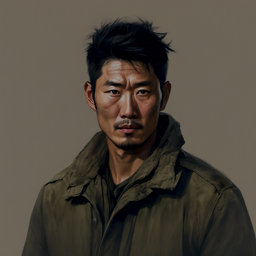
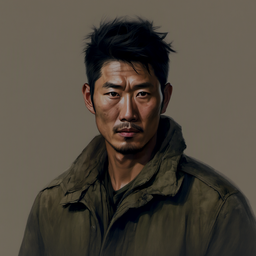
주인공 초상화 16장 추가, 실사 얼굴 크기 맞추기 (12-139)
- 화풍마다 남녀 2명씩 16장 추가 (모두 32장: A 남4·여4, D 남4·여4, C 남2·여6, B 남3·여5)
- 화풍 단위 crop_scale: 실사(A)는 같은 얼굴 너비 기준이어도 작아 보여 0.88로 당겨 자른다
- 원본 덮어쓰기 경계·테두리가 남는 얼굴은 cleanup: true로 Qwen이 전체를 다듬는다

diff --git a/scripts/portraits.ts b/scripts/portraits.ts
@@ -34,6 +34,8 @@ type Style = {
   sampler: string;
   scheduler: string;
   grade?: Grade;
+  /** 이 화풍 전체의 자르는 영역 배율 (기본 1). 1보다 작으면 얼굴이 커진다. 얼굴의 crop_scale과 곱한다 */
+  crop_scale?: number;
   /** 머리가 위로 잘리는 화풍용: 위쪽을 이만큼(px, 8의 배수) 이어 그린 뒤 위에서부터 정사각형으로 자른다 */
   extend_top?: number;
 };
@@ -195,7 +197,7 @@ for (const job of jobs) {
   job.crop = null;
   if (framing) {
     const { width, height } = pngSize(job.raw);
-    if (face) job.crop = planCrop(face, width, height, job.ch.crop_scale ?? 1);
+    if (face) job.crop = planCrop(face, width, height, (style.crop_scale ?? 1) * (job.ch.crop_scale ?? 1));
     else console.error(`  ! ${job.prefix}: 얼굴을 찾지 못해 가운데를 자릅니다`);
   }
   const p = job.crop?.pad;

diff --git a/docs/design.md b/docs/design.md
@@ -227,7 +227,7 @@ storylet_tags: [grunt, squad_life]
     - 다 만들면 상태 화면은 시트로 바뀌고 "Claude 세션에서 첫 장면이 이어진다"를 잠깐 띄운다
     - 상태 서버의 `POST /api/creation`은 Claude 세션이 화면 고르기를 열었을 때만 받는다 (JSON만, 설정 창과 같은 까닭)
   - 초상화는 id만 세이브에 남는다. 월드 팩에 주인공 초상화 목록(`art/portraits.yaml`)이 있으면 그 그림(`art/portraits/<id>.png`, 상태 화면이 `/portraits/<팩>/<id>.png`로 내준다)을, 없으면 코드로 그린 실루엣 12종(`ui/Portrait.tsx`, 예전 세이브도)을 그린다
-  - **주인공 초상화** (12-139): NPC 얼굴은 만들지 않고 주인공 얼굴만 고른다. 사용자가 화풍을 고를 수 있게 화풍마다 섹션을 나눈다. post_apoc은 실사 회화(A, 남2·여2) → 미국 애니메이션(D, 남2·여2) → 현대 애니메이션(C, 여4) → 일본 레트로 일러스트(B, 여3·남1) 순. 일반 플레이어는 A·D를, 애니메이션 취향은 B·C를 고를 것으로 본다. core는 `art/portraits.yaml`에서 화풍 이름(`styles.<id>.label`, 적힌 순서가 섹션 순서)과 얼굴의 화풍·성별(`faces.<id>.style·gender`)만 읽고, 나머지 칸은 그림 생성 도구(`pnpm portraits <팩>`, 로컬 ComfyUI)의 설정이다. 목록이 있는 월드는 목록 밖 id와 다른 성별의 얼굴을 받지 않는다
+  - **주인공 초상화** (12-139): NPC 얼굴은 만들지 않고 주인공 얼굴만 고른다. 사용자가 화풍을 고를 수 있게 화풍마다 섹션을 나눈다. post_apoc은 실사 회화(A, 남4·여4) → 미국 애니메이션(D, 남4·여4) → 현대 애니메이션(C, 남2·여6) → 일본 레트로 일러스트(B, 남3·여5) 순. 일반 플레이어는 A·D를, 애니메이션 취향은 B·C를 고를 것으로 본다. core는 `art/portraits.yaml`에서 화풍 이름(`styles.<id>.label`, 적힌 순서가 섹션 순서)과 얼굴의 화풍·성별(`faces.<id>.style·gender`)만 읽고, 나머지 칸은 그림 생성 도구(`pnpm portraits <팩>`, 로컬 ComfyUI)의 설정이다. 목록이 있는 월드는 목록 밖 id와 다른 성별의 얼굴을 받지 않는다
   - 그림 생성 (`scripts/portraits.ts`): 화풍마다 모델이 다르다(A·D는 SDXL Base, B·C는 Animagine XL 4.0). 모든 얼굴의 크기·위치를 맞추려고 상반신까지 넉넉히 그린 뒤 얼굴을 찾아(SAM 3.1) 같은 기준(`framing`)으로 자른다. 여백이 많이 모자라거나 원본에 액자·비네트가 있으면 Qwen Image 2.1 편집(`cleanup`)으로 장면을 이어 채우고 지운다. **Qwen Image 2.1은 Qwen RESEARCH LICENSE(비상업, 연구·평가용)라서 배포용 그림에 쓰려면 상업 라이선스를 받아야 한다.** 마음에 든 옛 그림은 `art/sources/`에 두고 `faces.<id>.source`로 그대로 쓴다
   - 캐릭터에 `gender`, `portrait`가 생겼다. NPC도 콘텐츠에 성별이 있다 (GM 상태의 인물 줄에 보인다)
 - NPC는 콘텐츠에서 한 사람씩 정한다
